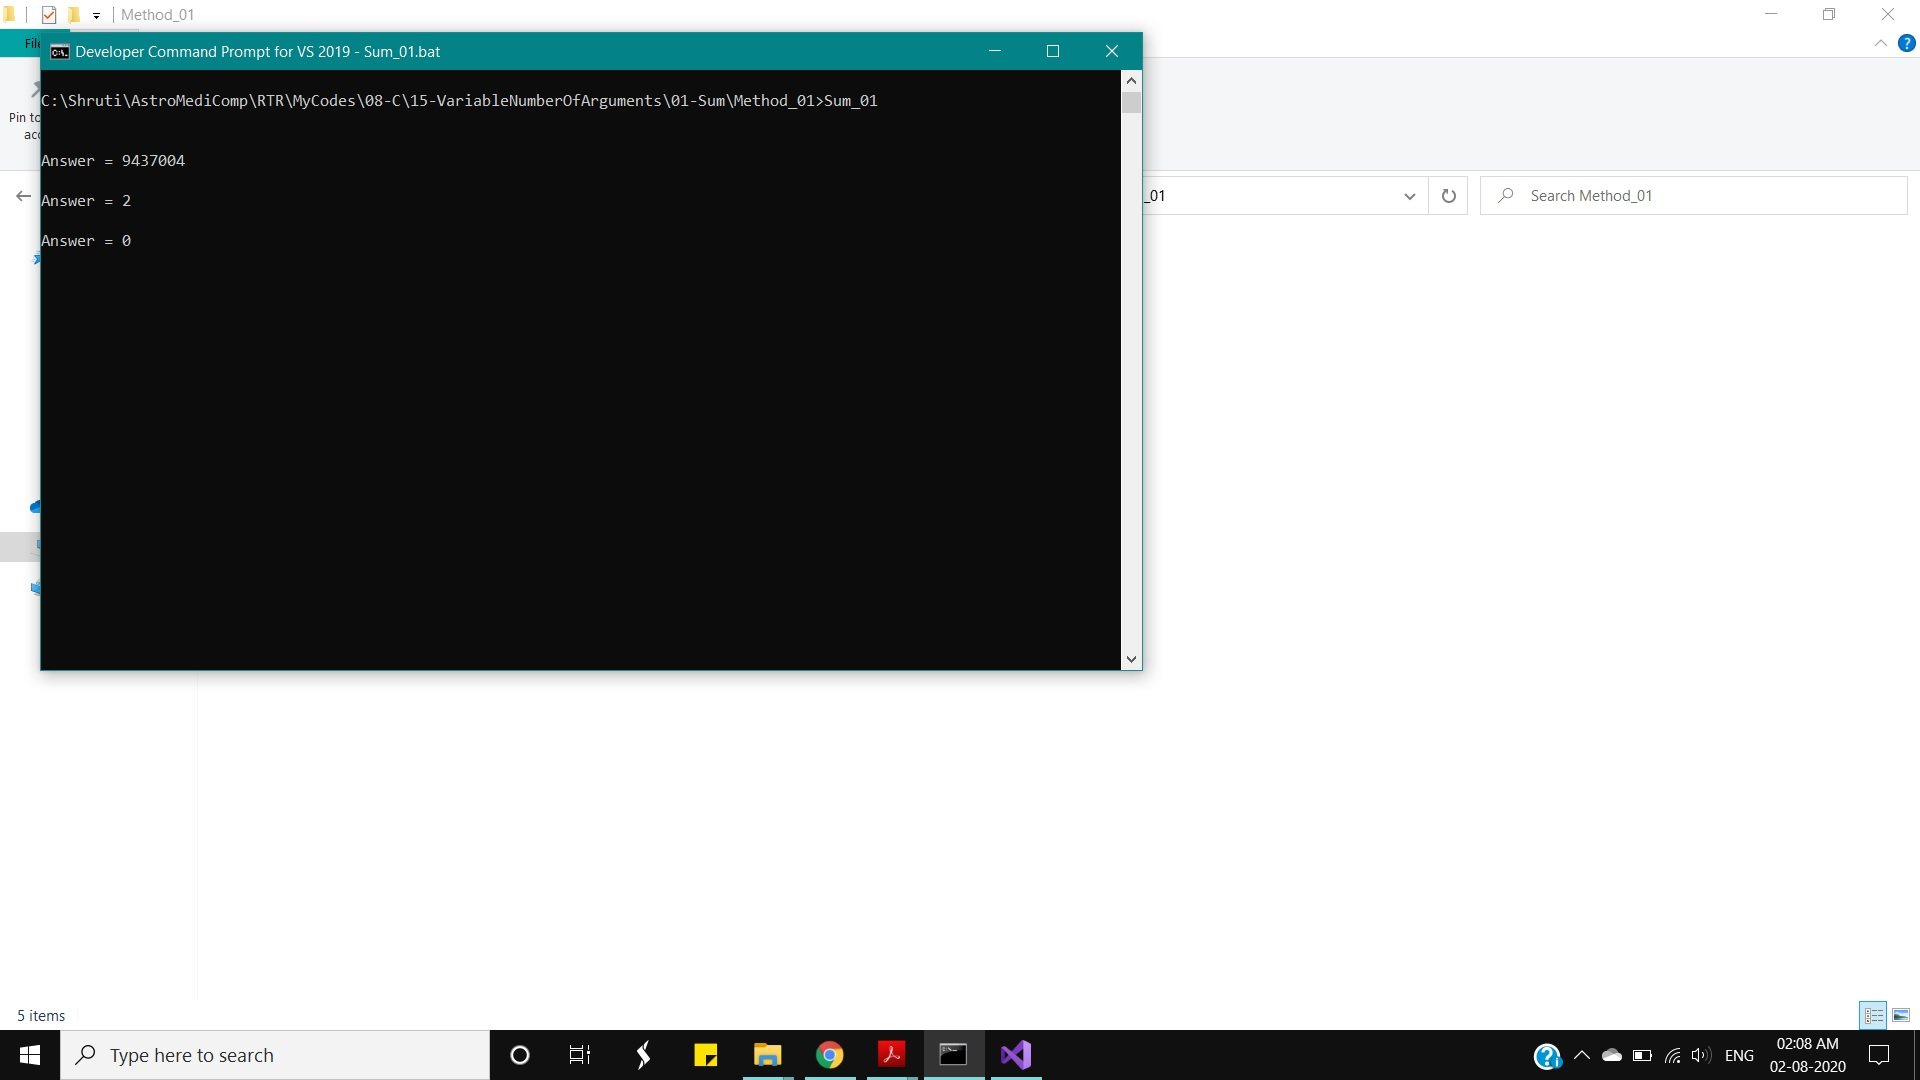
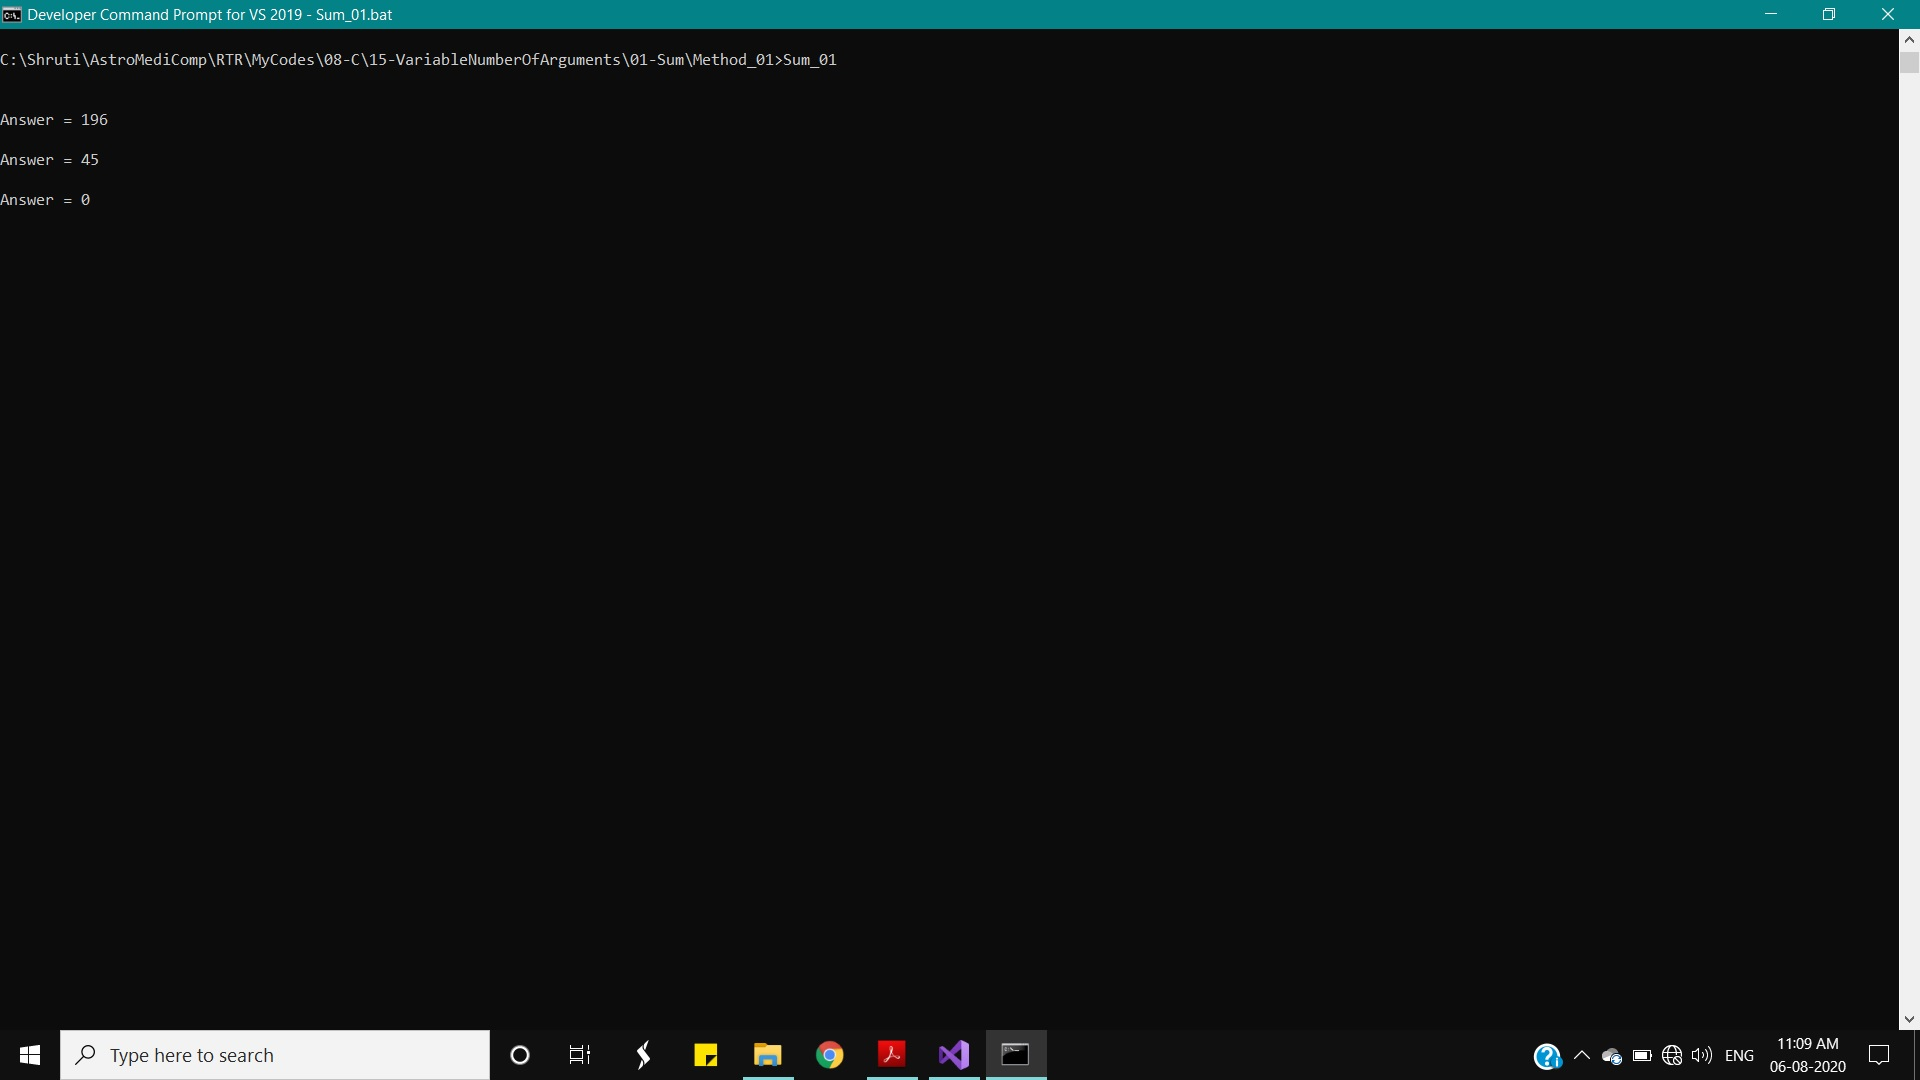
C Snippets

diff --git a/08-C/15-VariableNumberOfArguments/01-Sum/Method_02/Sum_02.c b/08-C/15-VariableNumberOfArguments/01-Sum/Method_02/Sum_02.c
@@ -11,10 +11,10 @@ int main(void)
 
 	// code
 	
-	ans = CalculateSum(7, 14, 21, 28, 35, 42);
+	ans = CalculateSum(7, 7, 14, 21, 28, 35, 42, 49);
 	printf("\n\nAnswer = %d\n\n", ans);
 
-	ans = CalculateSum(1, 2, 3, 4, 5, 6, 7, 8, 9, 10, 11);
+	ans = CalculateSum(9, 1, 2, 3, 4, 5, 6, 7, 8, 9);
 	printf("Answer = %d\n\n", ans);
 
 	ans = CalculateSum(0);

diff --git a/08-C/15-VariableNumberOfArguments/01-Sum/Method_01/Sum_01.c b/08-C/15-VariableNumberOfArguments/01-Sum/Method_01/Sum_01.c
@@ -11,10 +11,10 @@ int main(void)
 
 	// code
 	
-	ans = CalculateSum(7, 14, 21, 28, 35, 42);
+	ans = CalculateSum(7, 7, 14, 21, 28, 35, 42, 49);
 	printf("\n\nAnswer = %d\n\n", ans);
 
-	ans = CalculateSum(1, 2, 3, 4, 5, 6, 7, 8, 9);
+	ans = CalculateSum(9, 1, 2, 3, 4, 5, 6, 7, 8, 9);
 	printf("Answer = %d\n\n", ans);
 
 	ans = CalculateSum(0);

diff --git a/08-C/14-Pointers/04-Structs/01-SimpleStructPointer/Method_02/SimpleStructPointer.c b/08-C/14-Pointers/04-Structs/01-SimpleStructPointer/Method_02/SimpleStructPointer.c
@@ -31,9 +31,9 @@ int main(void)
 	}
 
 	//Assigning values
-	(*sData).i = 3;
-	(*sData).f = 15.17;
-	(*sData).d = 7.15173;
+	sData->i = 3;
+	sData->f = 15.17;
+	sData->d = 7.15173;
 
 	//Displaying Values	
 	printf("\n\nData members of 'struct SData' are : \n\n");
